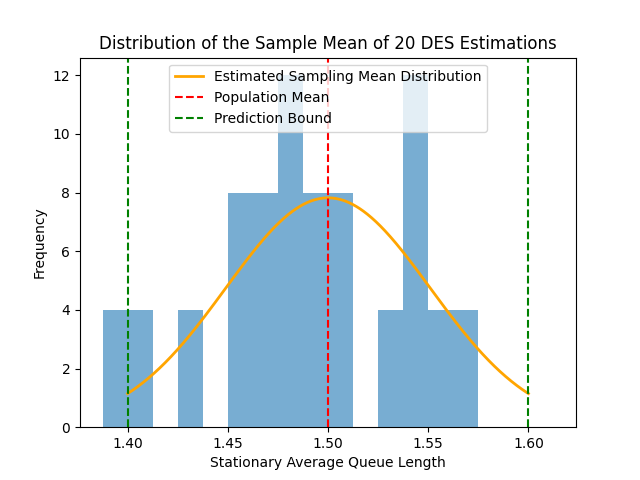
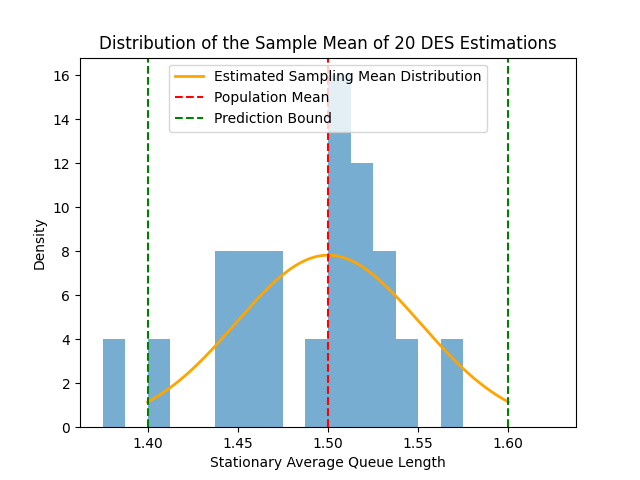
Minor fixes

diff --git a/ProblemSet4.tex b/ProblemSet4.tex
@@ -128,6 +128,7 @@ Let $P^{(i)}, i = 1,2$ be the transition matrices of two ergodic Markov chains w
 
 \begin{solution}
 \end{solution}
+\pagebreak
 
 %\begin{problem} \marks{10}
 %Consider a population of individuals each of whom possesses two genes that can be either type $A$ or type $a$. Suppose that in outward appearance (the {\em phenotype}) type $A$ is dominant and type $a$ recessive. Suppose that the population has stabilized, and the percentages of individuals having respective gene pairs $AA$, $aa$ and $Aa$ are $p,q,$ and $r$ Call an individual dominant or recessive depending on phenotype. Let $S_{11}$ denote the probability that an offspring of two dominant parents will be recessive, $S_{10}$ the probability that the offspring of one recessive and one dominant parent will be recessive. Compute $S_{11}$ and $S_{10}$ to show that $S_{11}= S_{10}^2$. These quantities are known in genetics as {\em Snyder's ratios}. 
@@ -223,6 +224,7 @@ There are $N$ individuals in a population, some of whom have a certain viral inf
 
     \end{enumerate}
 \end{solution}
+\pagebreak
 
 \begin{problem} \marks{30}
 You have decided to do consultation for modeling, simulation and optimization. You offer various research  services: modeling, statistical analysis, optimization, software development, etc. There are $N$ such research
@@ -246,6 +248,8 @@ Design a simulation to evaluate the long term profit as a function of $c$. Expla
 \begin{solution}
     \begin{enumerate}
         % part a
+        \item Part A
+        % part b
         \item The long term profit rate can be expressed as the following:
         \[
         \quad c \cdot \frac{T_{\text{working}}}{T_{\text{total}}}
@@ -268,11 +272,10 @@ Design a simulation to evaluate the long term profit as a function of $c$. Expla
         }
         \]
         % part b
-        \item Part B
-        % part b
-        \item For simplicity, when running our simulations
+        \item Part C
     \end{enumerate}
 \end{solution}
+\pagebreak
 
 \begin{problem} \marks{20}
 Consider a M/GI/1 queue with Poisson arrivals of rate $\la$ and iid service times $\{S_i\}$ with  distribution $\Gamma(3,4)$. The goal is to estimate the stationary average queue length $\th$. For each simulation model, namely the discrete-event based model and the Petri-net model, do the following. 
@@ -304,7 +307,16 @@ Consider a M/GI/1 queue with Poisson arrivals of rate $\la$ and iid service time
         \item The total number of iterations the simulation performs is a random stopping time since we calculate our confidence interval based on past observations, and stop when it is less than a fixed number.
 
         % part c
-        \item Part C
+        \item
+        \begin{figure}[h]
+            \begin{center}
+                \includegraphics[scale=0.38]{p5_des_fig.png}
+                \includegraphics[scale=0.38]{p5_pom_fig.png}
+            \end{center}
+        \end{figure}
+        20 DES estimations took a total of 21.26 seconds, while 20 POM estimations took a very similar 22.76 seconds.
+        Both approaches are very close in terms of speed, and the distribution of their output \theta estimates are not significantly different.
+        For both approaches, the coverage was the expected $95\%$
     \end{enumerate}
 \end{solution}
 

diff --git a/ps4_5.py b/ps4_5.py
@@ -167,7 +167,7 @@ def RunDESAlgo(runs=20, precision=0.1):
     plt.axvline(center + precision, color='green', linestyle="dashed")
     plt.title("Distribution of the Sample Mean of 20 DES Estimations")
     plt.xlabel("Stationary Average Queue Length")
-    plt.ylabel("Frequency")
+    plt.ylabel("Density")
     plt.legend()
     plt.savefig("p5_des_fig.png")
     plt.show()
@@ -199,7 +199,7 @@ def RunPOMAlgo(runs=20, precision=0.1):
     plt.axvline(center + precision, color='green', linestyle="dashed")
     plt.title("Distribution of the Sample Mean of 20 POM Estimations")
     plt.xlabel("Stationary Average Queue Length")
-    plt.ylabel("Frequency")
+    plt.ylabel("Density")
     plt.legend()
     plt.savefig("p5_pom_fig.png")
     plt.show()

diff --git a/ps4_4.py b/ps4_4.py
@@ -177,6 +177,7 @@ def SearchSpace(searches):
     ax.set_title("Long Term Profit Rate vs Cost")
     plt.show()
     plt.savefig("p5_profit_fig.png")
+    plt.close()
 
 
 # stuff for testing code
